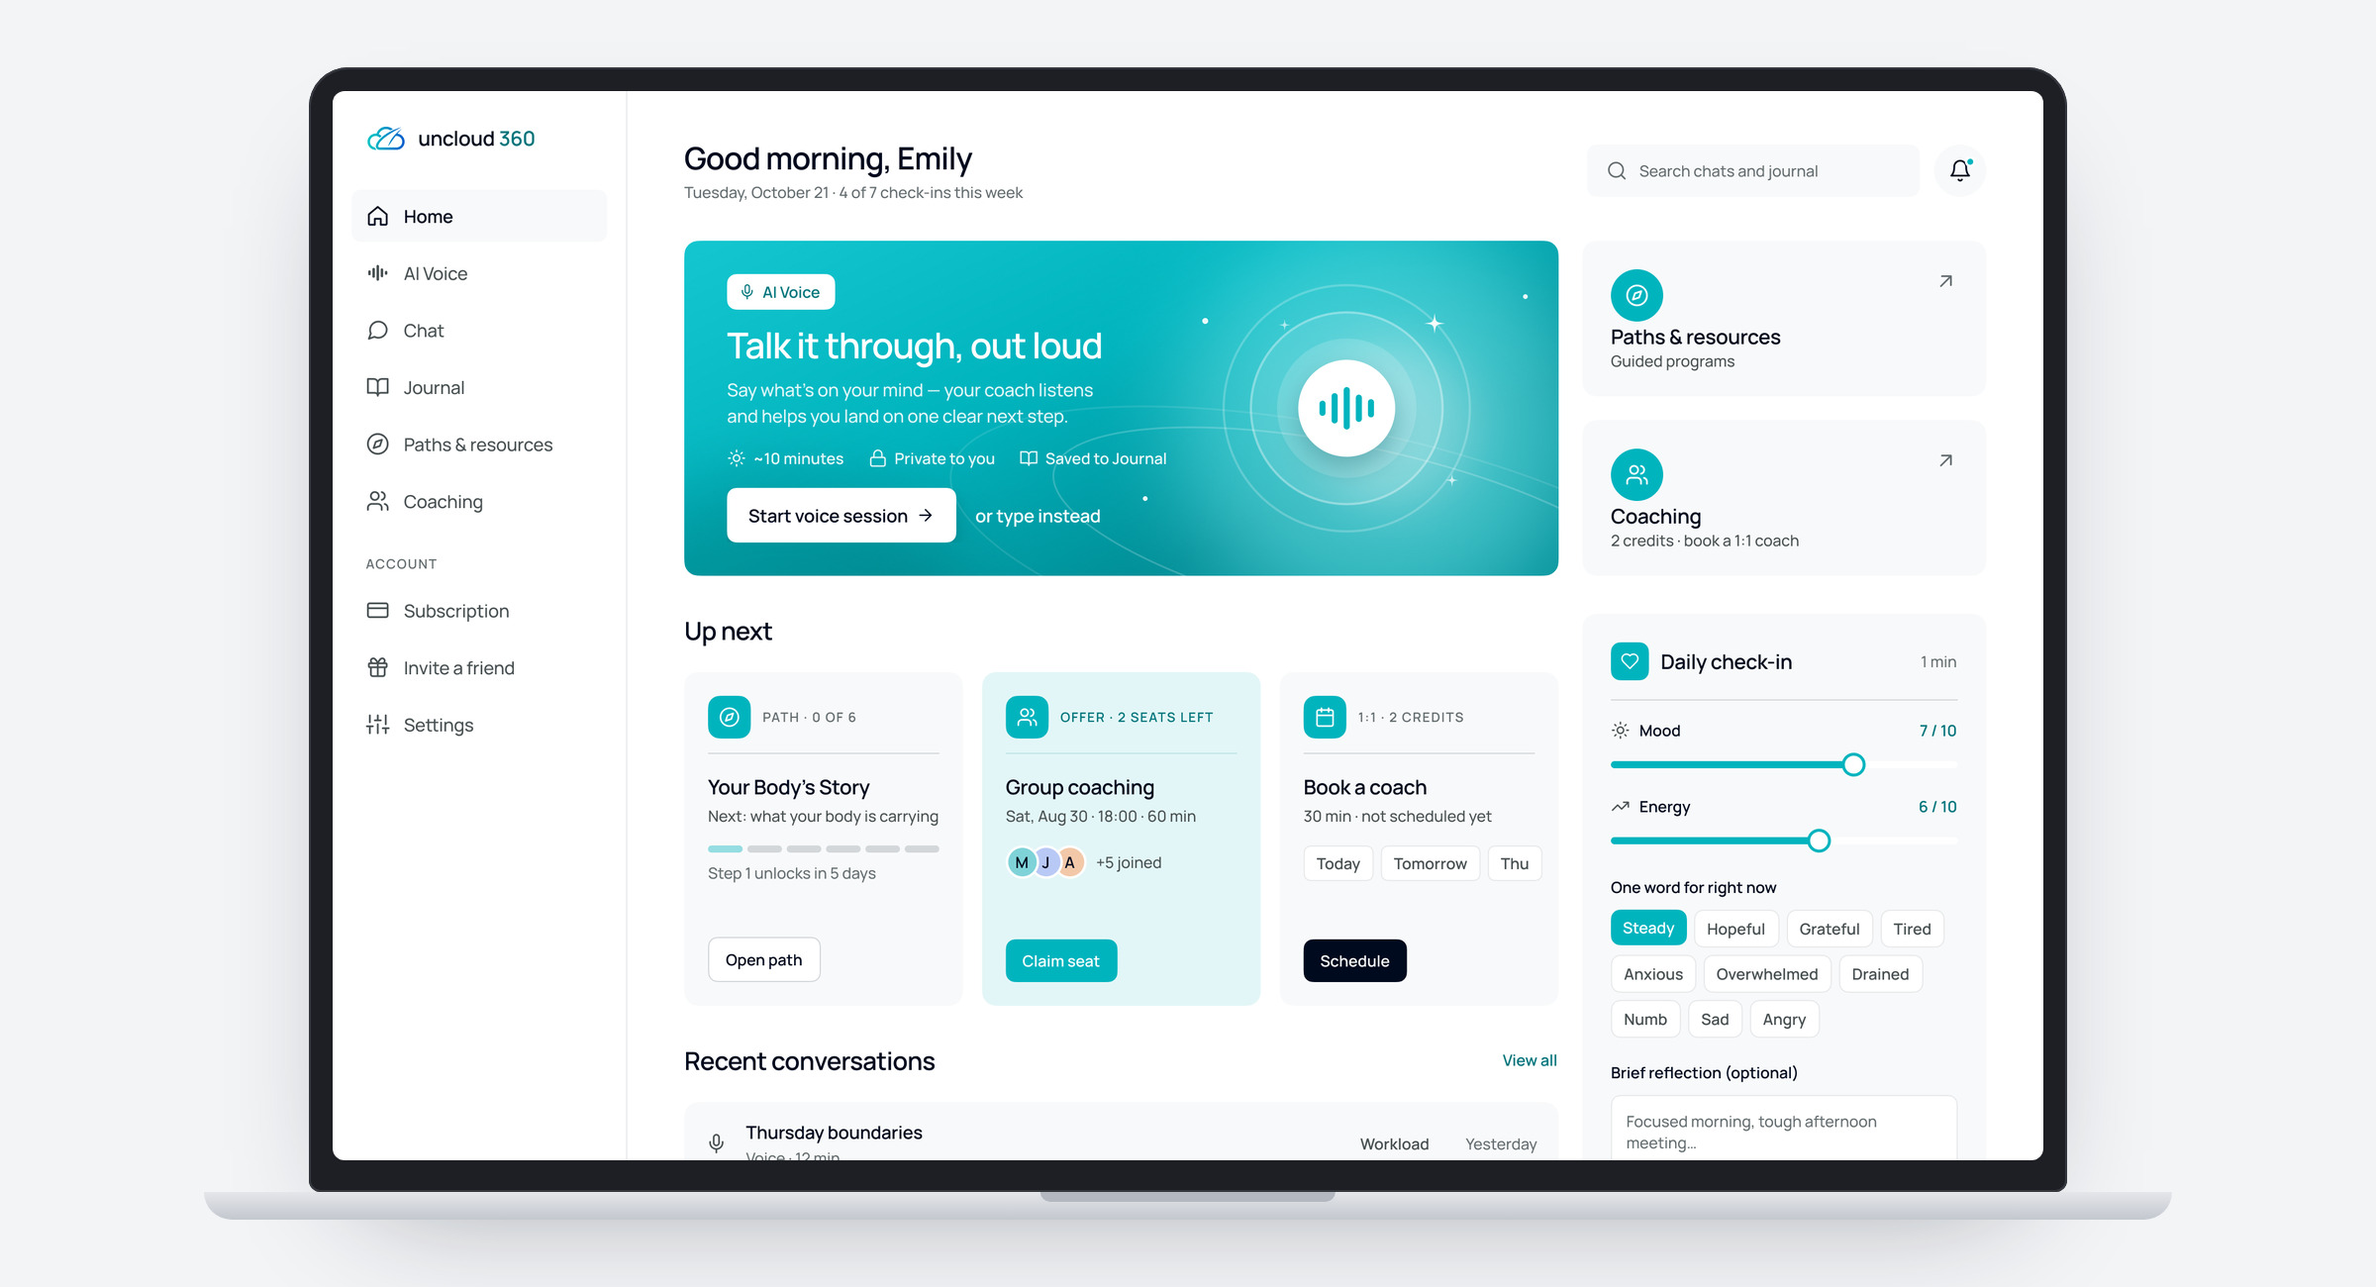
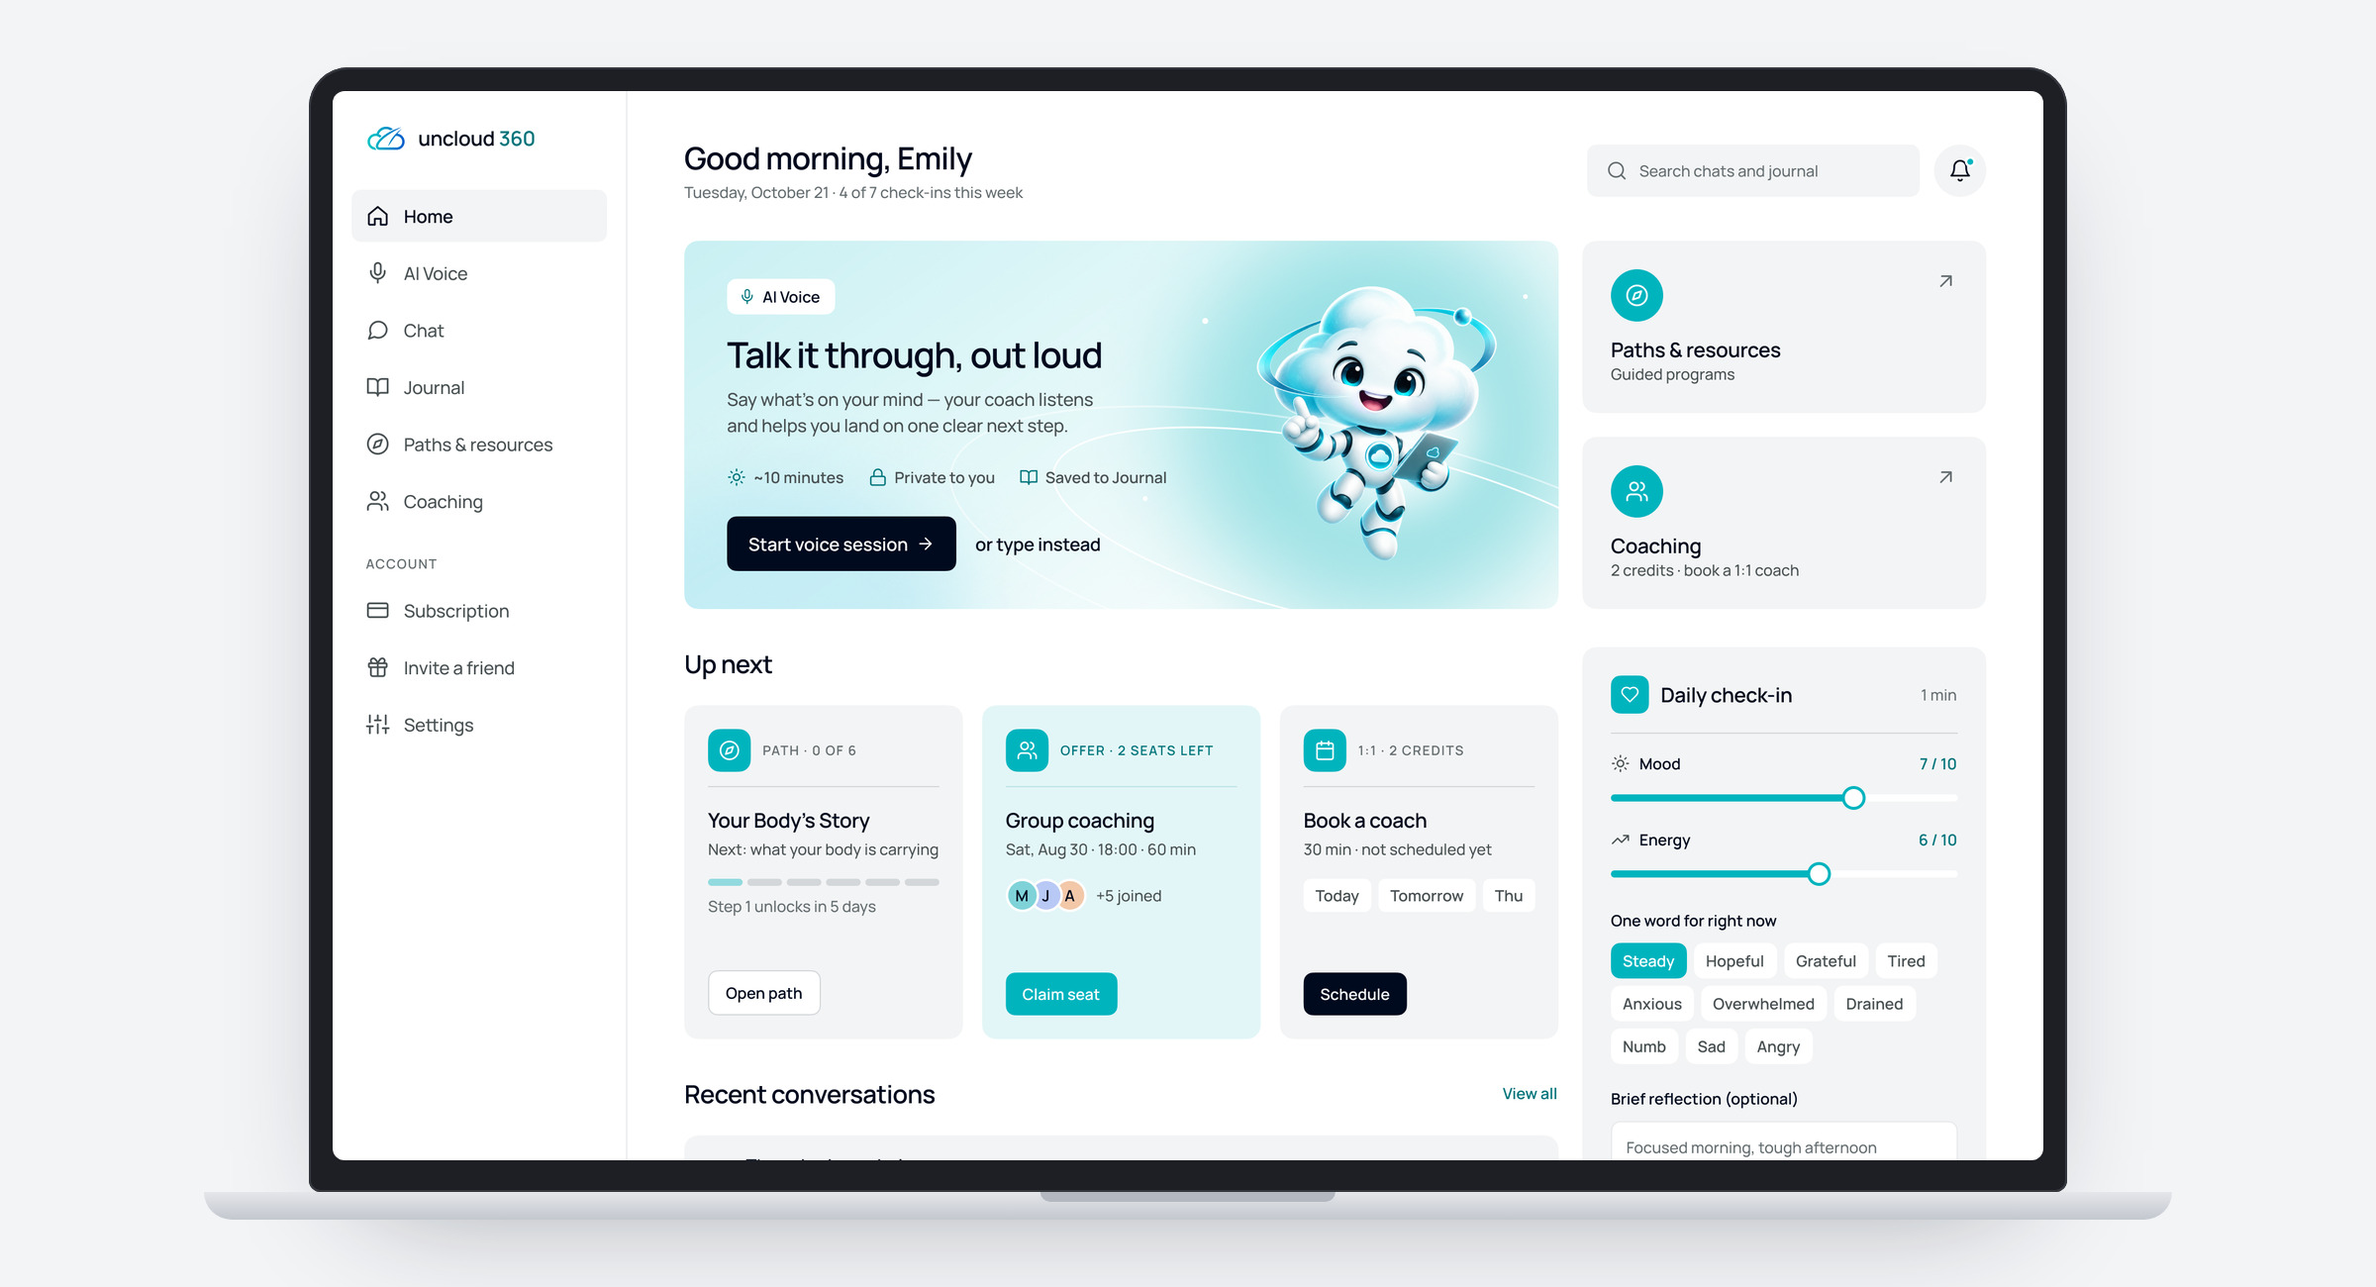
Uncloud360: current v2 desktop with the character, Lead Designer, 3 weeks
Claude-Session: https://claude.ai/code/session_019s9hMNDEcLkm54bZicL17g

diff --git a/cases/uncloud.html b/cases/uncloud.html
@@ -225,7 +225,7 @@ figure{margin:0}
 <main>
 <section class="chero wide">
   <div class="top">
-    <div class="tags"><span class="tag">Mobile app · AI coaching</span><span class="tag acc">[My role]</span></div>
+    <div class="tags"><span class="tag">Mobile app · AI coaching</span><span class="tag acc">Lead Designer</span></div>
     <span class="year">Wellbeing &nbsp;·&nbsp; 2026</span>
   </div>
   <div class="media rv"><img src="../img/cases/uncloud/cover.jpg" alt="Uncloud360: home, AI Voice and session summary screens with the 3D character" loading="lazy"></div>
@@ -241,9 +241,9 @@ figure{margin:0}
       <p class="body rv">People open a coaching app when something is heavy: burnout at work, tension at home, a decision they keep putting off. In that moment the interface has to get out of the way. The task was a calm, clear product where a conversation with the assistant is always one tap away, a mascot that makes the AI feel approachable without being childish, and a visual style built on the Uncloud 360 brand book.</p>
     </div>
     <dl class="meta rv">
-      <div><dt>My role</dt><dd>[Role]<small>UX, UI, mascot, design system</small></dd></div>
+      <div><dt>My role</dt><dd>Lead Designer<small>UX, UI, mascot, design system</small></dd></div>
       <div><dt>Team</dt><dd>[Team]</dd></div>
-      <div><dt>Timeline</dt><dd>[Duration]<small>2026</small></dd></div>
+      <div><dt>Timeline</dt><dd>3 weeks<small>2026</small></dd></div>
       <div><dt>Platform</dt><dd>iOS-first · desktop web</dd></div>
       <div><dt>Users</dt><dd>Adults dealing with stress, burnout and life decisions</dd></div>
     </dl>
@@ -259,8 +259,8 @@ figure{margin:0}
       <div class="step rv"><span class="n">01</span><b>Brief</b><p>Who comes to the app and in what state; what has to be reachable in one tap.</p></div>
       <div class="step rv"><span class="n">02</span><b>Style concept</b><p>Light, calm, grown-up: Navy for structure, Teal for the one action, Mist for air.</p></div>
       <div class="step rv"><span class="n">03</span><b>Mascot</b><p>Four directions explored; a 3D cloud character with poses for welcoming, pointing and presenting.</p></div>
-      <div class="step rv"><span class="n">04</span><b>Mobile first</b><p>20 screens from welcome to session summary, journal, paths and settings.</p></div>
-      <div class="step rv"><span class="n">05</span><b>Desktop</b><p>20 screens on the same components, with a sidebar and wider layouts.</p></div>
+      <div class="step rv"><span class="n">04</span><b>Mobile first</b><p>From welcome and sign-up to the voice session, chat, summary, journal and settings.</p></div>
+      <div class="step rv"><span class="n">05</span><b>Desktop</b><p>The same components on a wider layout with a sidebar and a live transcript panel.</p></div>
     </div>
   </div>
 </section>
@@ -351,7 +351,7 @@ figure{margin:0}
   <div class="wrap">
     <div class="shead">
       <h2 class="h2 rv">Desktop</h2>
-      <p class="body rv">The same coach on a bigger screen: sidebar navigation, a dashboard with a daily check-in, and the voice session with a live transcript and captured insights.</p>
+      <p class="body rv">The same coach on a bigger screen: sidebar navigation, a dashboard with a daily check-in, and the voice session with the character, a live transcript and captured insights.</p>
     </div>
     <div class="screens">
       <div class="media span rv"><img src="../img/cases/uncloud/desktop-dashboard.jpg" alt="Desktop dashboard on a laptop" loading="lazy"></div>
@@ -368,7 +368,7 @@ figure{margin:0}
       </div>
       <div class="kpis">
         <div class="kpi rv"><b>1 tap</b><span>To a voice session from any screen</span></div>
-        <div class="kpi rv"><b>40</b><span>Screens: 20 mobile and 20 desktop</span></div>
+        <div class="kpi rv"><b>3 weeks</b><span>From brief to a mobile and desktop concept</span></div>
         <div class="kpi rv"><b>4</b><span>Mascot directions explored before the final character</span></div>
       </div>
     </div>

diff --git a/ru.html b/ru.html
@@ -956,7 +956,7 @@ dialog.sheet[open]{animation:pop .45s var(--ease)}
         <span class="wk-n">01 / 05<i>AI-коучинг</i></span>
         <h3>Uncloud360</h3>
         <p>Мобильный AI-коуч для работы, эмоций и жизни: разговор с ассистентом в один тап, спокойный 3D-маскот и понятный интерфейс.</p>
-        <dl class="wk-kpi"><div><dt>Мобайл</dt><dd>Тип продукта</dd></div><div><dt>[Роль]</dt><dd>Моя роль</dd></div><div><dt>[Срок]</dt><dd>Длительность</dd></div></dl>
+        <dl class="wk-kpi"><div><dt>Мобайл</dt><dd>Тип продукта</dd></div><div><dt>Лид-дизайнер</dt><dd>Моя роль</dd></div><div><dt>3 недели</dt><dd>Длительность</dd></div></dl>
         <span class="wk-cta">Смотреть кейс</span>
       </div>
       <div class="wk-vis wk-img pvw sq" data-r="20"><div class="pv-ph"><img src="img/cases/uncloud/cover.jpg" alt="Uncloud360" loading="lazy"></div></div>

diff --git a/index.html b/index.html
@@ -956,7 +956,7 @@ dialog.sheet[open]{animation:pop .45s var(--ease)}
         <span class="wk-n">01 / 05<i>AI coaching</i></span>
         <h3>Uncloud360</h3>
         <p>A mobile AI coach for work, emotions and life: a conversation with the assistant in one tap, a calm 3D mascot and a clear interface.</p>
-        <dl class="wk-kpi"><div><dt>Mobile</dt><dd>Product type</dd></div><div><dt>[Role]</dt><dd>My role</dd></div><div><dt>[Timeline]</dt><dd>Duration</dd></div></dl>
+        <dl class="wk-kpi"><div><dt>Mobile</dt><dd>Product type</dd></div><div><dt>Lead Designer</dt><dd>My role</dd></div><div><dt>3 weeks</dt><dd>Duration</dd></div></dl>
         <span class="wk-cta">View case</span>
       </div>
       <div class="wk-vis wk-img pvw sq" data-r="20"><div class="pv-ph"><img src="img/cases/uncloud/cover.jpg" alt="Uncloud360" loading="lazy"></div></div>

diff --git a/i18n/build_en.py b/i18n/build_en.py
@@ -62,7 +62,7 @@ T = {
  'Избранные кейсы': 'Selected work', 'Продукт.': 'Product.', 'С результатом.': 'With results.',
  'Кейсы скоро появятся здесь — с задачей, подходом и цифрами результата.': 'Case studies are coming soon — with the problem, the approach and measurable results.',
  'Все кейсы': 'All work',
- 'Детский спорт': 'Youth sports', 'Бухгалтерия': 'Accounting', 'Финтех': 'Fintech', 'AI-коучинг': 'AI coaching', 'Мобайл': 'Mobile', 'Мобильный AI-коуч для работы, эмоций и жизни: разговор с ассистентом в один тап, спокойный 3D-маскот и понятный интерфейс.': 'A mobile AI coach for work, emotions and life: a conversation with the assistant in one tap, a calm 3D mascot and a clear interface.', '3D-сканирование': '3D scanning', 'Операционная платформа с нуля для компании, которая 3D-сканирует здания: заявки, сделки, коммерческие предложения, проекты и учёт времени.': 'An operations platform built from scratch for a company that 3D-scans buildings: leads, deals, proposals, projects and time tracking.', 'Лид-дизайнер': 'Lead Designer', '2 недели': '2 weeks', 'Сервис для управления студенческими кредитами: все займы в одном месте, понятный следующий шаг и коучи, которые готовят документы.': 'A service for managing student loans: every loan in one place, a clear next step, and coaches who prepare the paperwork.', 'Перемотка видео': 'Video progress', 'AI-ассистент для бухгалтеров, который отвечает только по проверенным регламентам и показывает источник.': 'An AI assistant for bookkeepers that answers only from validated SOPs and shows the source.', 'Веб': 'Web',
+ 'Детский спорт': 'Youth sports', 'Бухгалтерия': 'Accounting', 'Финтех': 'Fintech', 'AI-коучинг': 'AI coaching', 'Мобайл': 'Mobile', 'Мобильный AI-коуч для работы, эмоций и жизни: разговор с ассистентом в один тап, спокойный 3D-маскот и понятный интерфейс.': 'A mobile AI coach for work, emotions and life: a conversation with the assistant in one tap, a calm 3D mascot and a clear interface.', '3D-сканирование': '3D scanning', 'Операционная платформа с нуля для компании, которая 3D-сканирует здания: заявки, сделки, коммерческие предложения, проекты и учёт времени.': 'An operations platform built from scratch for a company that 3D-scans buildings: leads, deals, proposals, projects and time tracking.', 'Лид-дизайнер': 'Lead Designer', '2 недели': '2 weeks', '3 недели': '3 weeks', 'Сервис для управления студенческими кредитами: все займы в одном месте, понятный следующий шаг и коучи, которые готовят документы.': 'A service for managing student loans: every loan in one place, a clear next step, and coaches who prepare the paperwork.', 'Перемотка видео': 'Video progress', 'AI-ассистент для бухгалтеров, который отвечает только по проверенным регламентам и показывает источник.': 'An AI assistant for bookkeepers that answers only from validated SOPs and shows the source.', 'Веб': 'Web',
  'Сервис для выбора детских турниров с проверенными отзывами команд, которые там играли.': 'A service for choosing youth tournaments, with verified reviews from teams who played there.', '[Отрасль]': '[Industry]', '[Название кейса]': '[Case title]',
  '[Одна фраза: какая была проблема и что сделал.]': '[One line: the problem and what I did.]',
  '[Платформа]': '[Platform]', 'Тип продукта': 'Product type', '[Роль]': '[Role]', 'Моя роль': 'My role',

diff --git a/cases/_tools/build_uncloud.py b/cases/_tools/build_uncloud.py
@@ -132,8 +132,8 @@ F.save(poses(), f'{OUT}/mascot-poses.jpg')
 F.save(directions(), f'{OUT}/mascot-evolution.jpg')
 
 # ---------- десктоп ----------
-F.save(F.view(p('d_voice3d'), 0, 0, 1440, size=(2400, 1500), s=2), f'{OUT}/desktop-voice.jpg')
-d = Image.open(p('d_dashboard')).convert('RGB').crop((0, 0, 2880, 1800))
+F.save(F.view(p('v2_d_voice'), 0, 0, 1440, size=(2400, 1500), s=2), f'{OUT}/desktop-voice.jpg')
+d = Image.open(p('v2_d_dashboard')).convert('RGB').crop((0, 0, 2880, 1800))
 F.device(f'{OUT}/desktop-dashboard.jpg', d, f'{SRC}/_tmp', 'laptop', size=(2400, 1300), width=0.74) if os.makedirs(f'{SRC}/_tmp', exist_ok=True) is None else None
 
 # ---------- слайды для презентации (16:9, 2880×1620) ----------
@@ -206,5 +206,5 @@ slide('04-screens', f"""<div style="position:absolute;left:96px;top:56px"><span 
 slide('05-desktop', f"""<div style="position:absolute;left:96px;top:0;bottom:0;width:420px;display:flex;flex-direction:column;justify-content:center">
 <span class="lbl">Desktop</span><h2 style="margin-top:16px">Same coach on a bigger screen</h2>
 <p style="margin-top:18px">Sidebar navigation, the voice session with a live transcript and insights captured on the side.</p></div>
-<img src="{png(F.fit(Image.open(p('d_voice3d')).convert('RGB'), w=1700), 'dv')}" style="position:absolute;left:560px;top:150px;width:850px;border-radius:16px;box-shadow:0 0 0 1px rgba(0,10,30,.08),0 30px 60px -30px rgba(0,40,50,.35)">""")
+<img src="{png(F.fit(Image.open(p('v2_d_voice')).convert('RGB'), w=1700), 'dv')}" style="position:absolute;left:560px;top:150px;width:850px;border-radius:16px;box-shadow:0 0 0 1px rgba(0,10,30,.08),0 30px 60px -30px rgba(0,40,50,.35)">""")
 print('ok', sorted(os.listdir(OUT)), sorted(os.listdir(PRES)))

diff --git a/HANDOFF.md b/HANDOFF.md
@@ -119,4 +119,4 @@ for c in ('tournament-guru','bookkeeper-ai','stulo'):
 - Figma `E9hPeByYOE9UiyuvSDhl5I`. Мобильный AI-коуч (выгорание, семья, работа), упор на мобилку, десктоп вторым.
 - **Маскот — 3D-персонаж с телом** (облако с руками и планшетом, позы presenting/pointing) — экраны концепта **v2** (страница «Mobile concept — v2», напр. 32:559). Не облако Nimbus/Kota из v4.
 - `cases/_tools/build_uncloud.py`: телефоны в плоских рамках, обложка, ряды экранов, позы маскота, слайды для презентации → `img/cases/uncloud/presentation/` (5 шт., 2880×1620, Manrope).
-- Плейсхолдеры: роль, команда, срок (в кейсе и в карточке на главной).
+- Роль Lead Designer, срок 3 недели. Десктоп — тоже v2 (страница «Desktop concept — v2», 37:2 и др.). Плейсхолдер остался только у команды.
